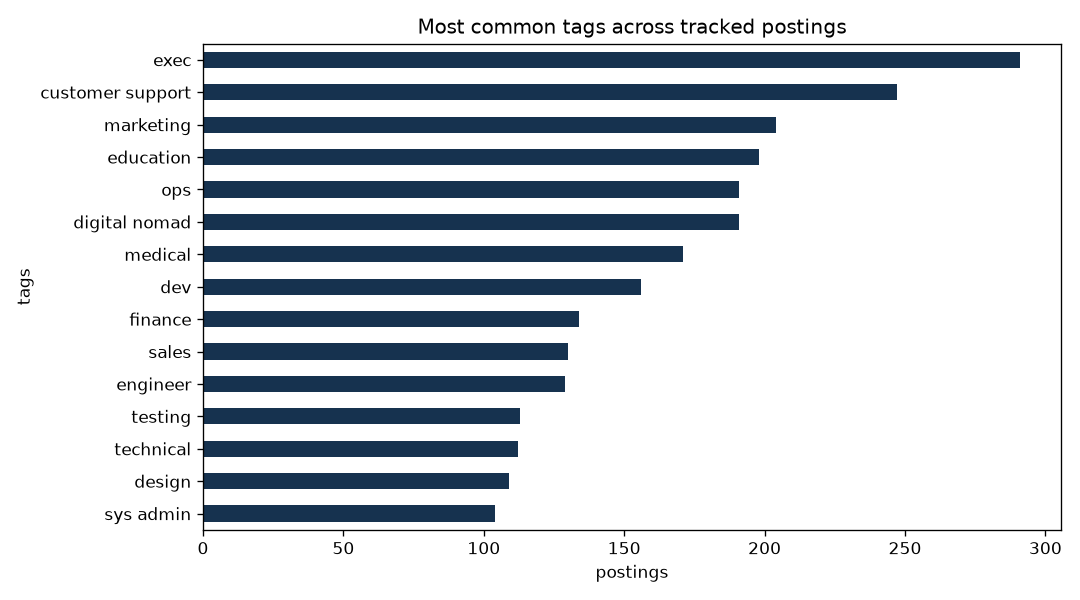
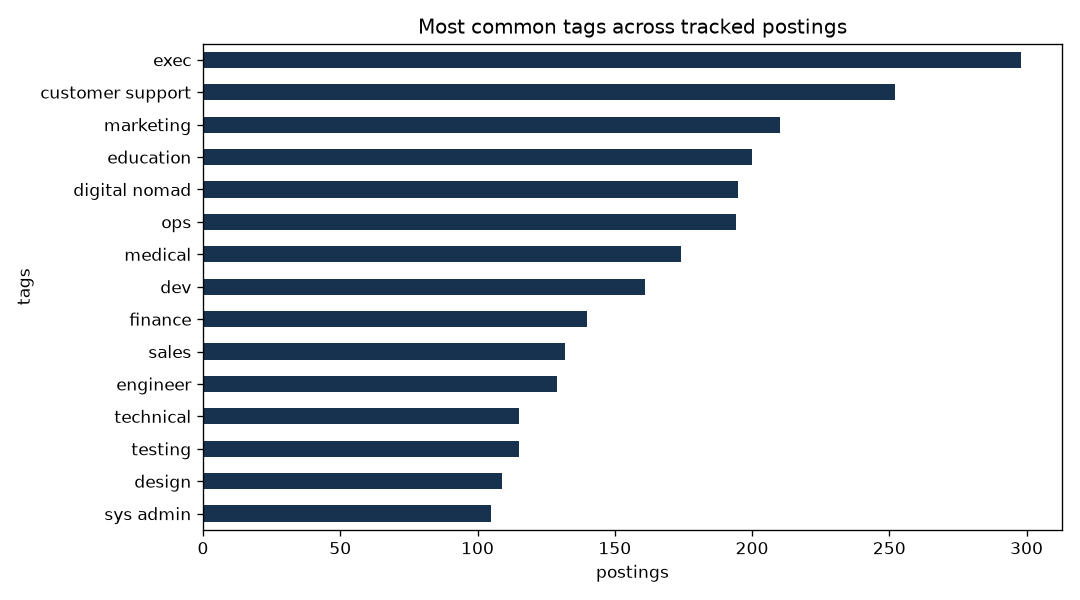
Daily data update

diff --git a/README.md b/README.md
@@ -13,13 +13,13 @@ reporting end to end.
 ## Dashboard
 
 <!-- dashboard:start -->
-*Last updated: 2026-11-03 19:57 UTC*
+*Last updated: 2026-11-04 20:17 UTC*
 
 | | |
 |---|---|
-| Postings tracked | 465 |
-| Companies | 385 |
-| New since last run | 3 |
+| Postings tracked | 472 |
+| Companies | 391 |
+| New since last run | 7 |
 | Data/ML-related share | 31% |
 
 ![Postings per week](reports/figures/postings_per_week.png)
